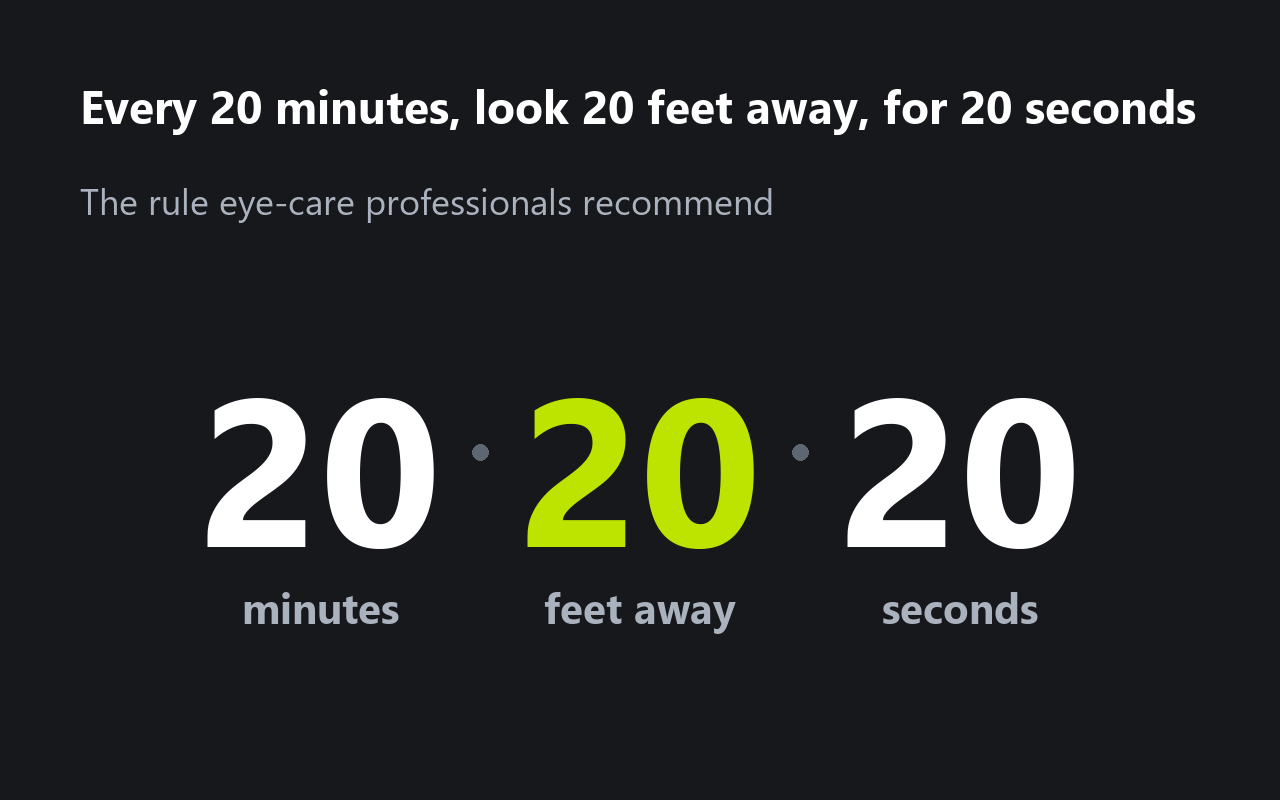
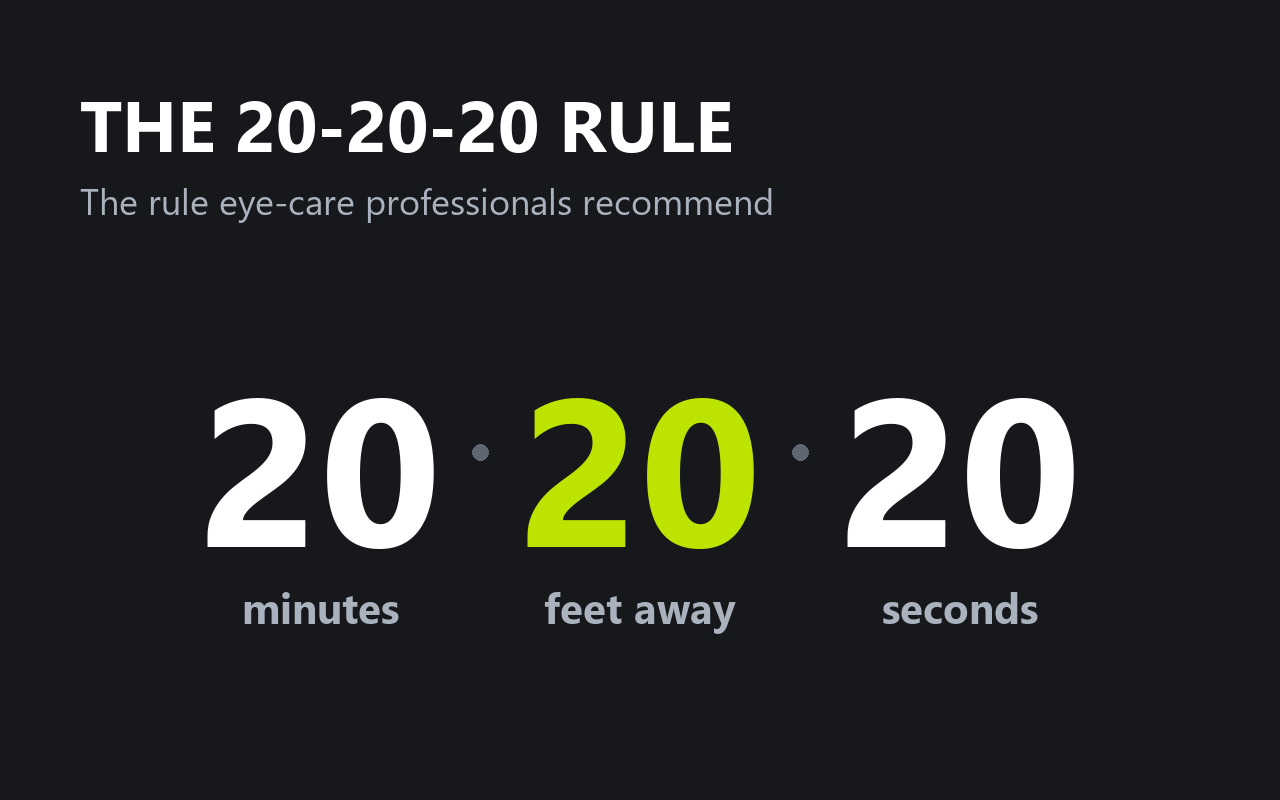
Store screenshots: the titles in capitals
The author's wording, set in capitals so the five read as one set rather
than five sentences.

Two of them needed more than a change of case. Spelled out in capitals at
full width, "every 20 minutes, look 20 feet away, for 20 seconds" fell to
38px -- half of every other headline, on the slide that should shout
loudest. It is "THE 20-20-20 RULE" now, which is no loss: the numbers are
already two hundred pixels tall beneath it, with minutes, feet and seconds
named under each. For the same reason the subtitle does not repeat them
either, and keeps only the line the graphic cannot carry, which is who
recommends this.

Changed region(s): [[0.0625, 0.0938, 0.9375, 0.1875]]

diff --git a/store/make_chrome_screens.py b/store/make_chrome_screens.py
@@ -107,7 +107,7 @@ def pill(d, box, text, fill=INK, ink=WHITE, size=28):
 def s1():
     """The only slide that has to work on someone who has never heard of
     this: both reminders, drawn the way they really look, side by side."""
-    c, d = slide("Blink reminders and 20-20-20 eye breaks",
+    c, d = slide("BLINK & BREAK REMINDERS",
                  "One app, two kinds of rest")
     ph = 318
     for i, (x, title, rate) in enumerate(((80, "Blink cue", "every 30 seconds"),
@@ -134,7 +134,7 @@ def s1():
 def s2():
     """The cue at a size you can actually see, which is the thing five
     full-page screenshots never managed."""
-    c, d = slide("You will see it, and hear it",
+    c, d = slide("SEE IT & HEAR IT",
                  "So a quiet reminder is not a missed one")
     card(d, (80, BODY_Y, 720, BODY_Y + 400))
     lines(d, 124, BODY_Y + 46, 540, rows=6, step=54)
@@ -155,7 +155,7 @@ def s2():
 def s3():
     """The buyer's real fear is being nagged. Four real renders answer it
     better than a sentence does."""
-    c, d = slide("Four styles. All adjustable.", "Make it fit the way you work")
+    c, d = slide("FOUR STYLES. ALL ADJUSTABLE.", "Make it fit the way you work")
     cw, ch = 540, 186
     for name, gx, gy in (("A dot", 0, 0), ("A word", 1, 0),
                          ("Dim screen", 0, 1), ("Corner dot", 1, 1)):
@@ -186,7 +186,11 @@ def s3():
 def s4():
     """The rule people have already heard from their optometrist. It is also
     what they type into the search box."""
-    c, d = slide("Every 20 minutes, look 20 feet away, for 20 seconds",
+    # The headline does not repeat the numbers: they are already two hundred
+    # pixels tall underneath it, with minutes, feet and seconds named. Set in
+    # capitals at full width the long version fell to 38px, half of every
+    # other headline in the set, on the slide that should shout loudest.
+    c, d = slide("THE 20-20-20 RULE",
                  "The rule eye-care professionals recommend",
                  bg=INK, ink=WHITE, sub_ink=(170, 178, 190))
     f = font(210, True)
@@ -210,7 +214,7 @@ def s4():
 def s5():
     """Every line here is checkable in the source, which is the only reason
     to make a claim this flat."""
-    c, d = slide("Nothing leaves your device",
+    c, d = slide("NOTHING LEAVES YOUR DEVICE",
                  "No way to send anything anywhere, and nothing to send")
     y = BODY_Y
     for text in ("No account, no sign-in",
